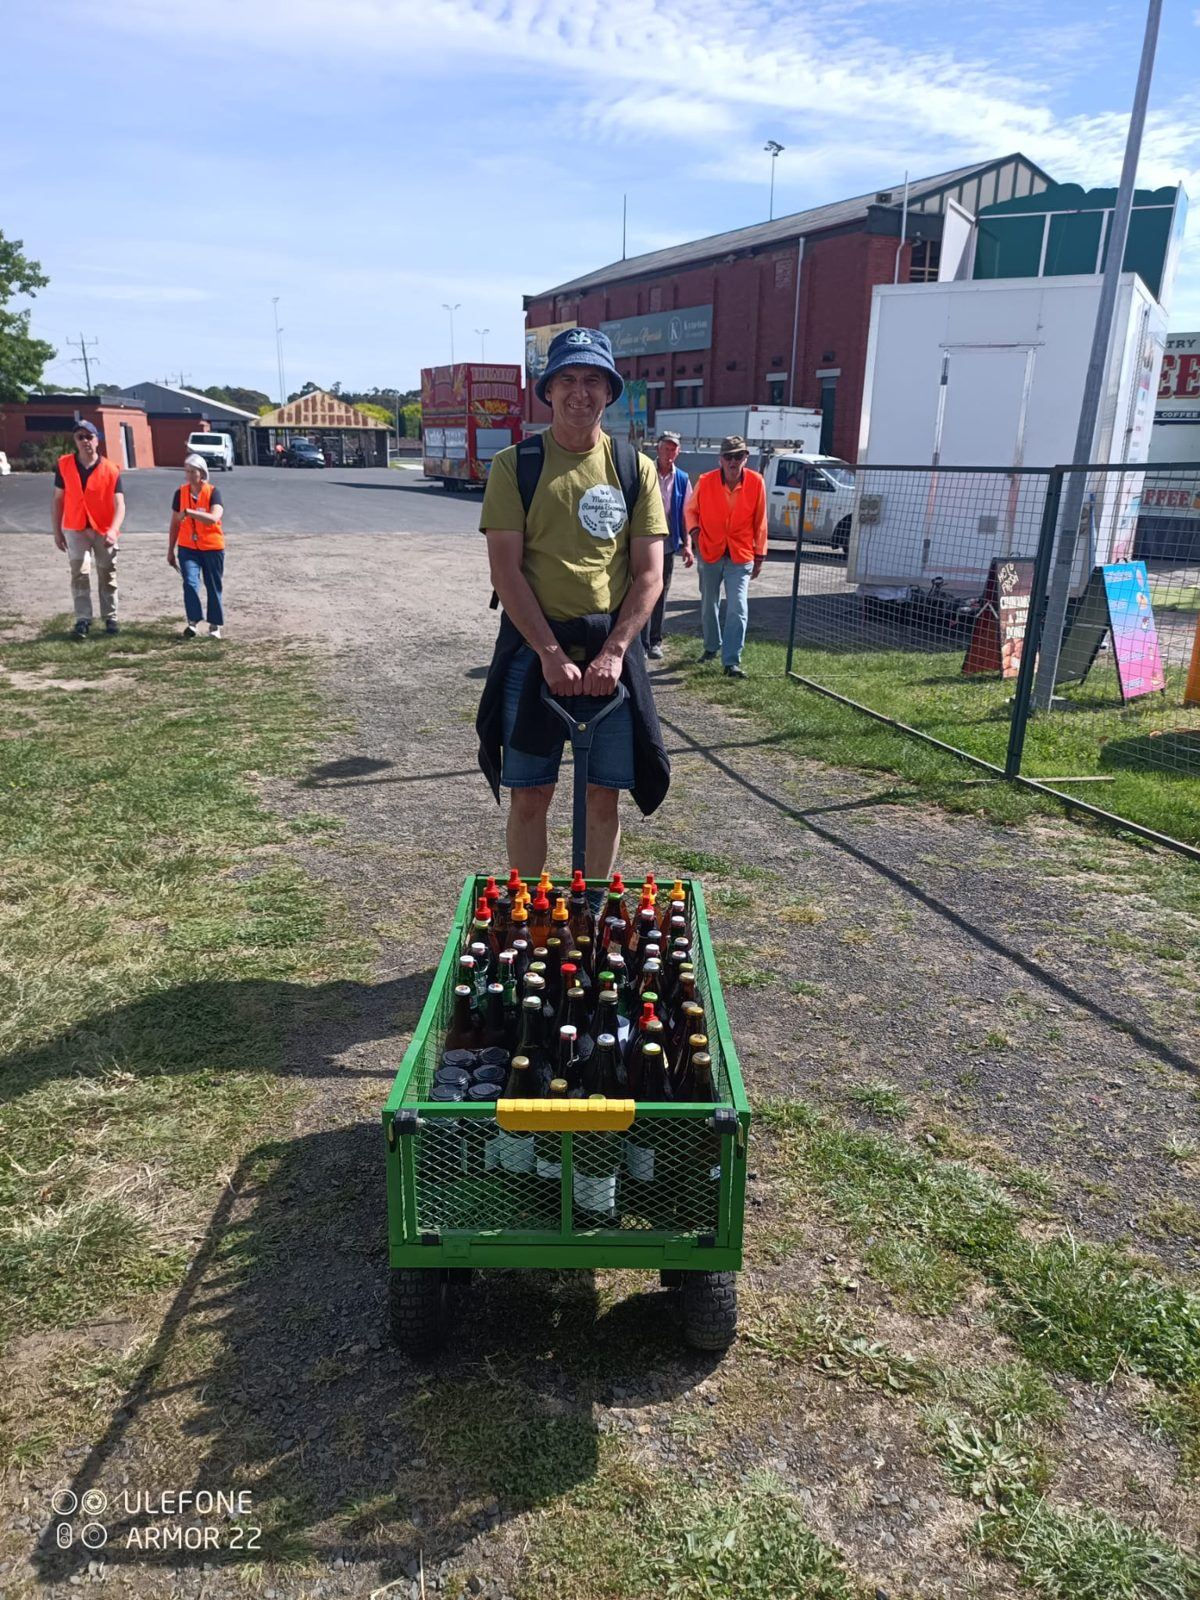
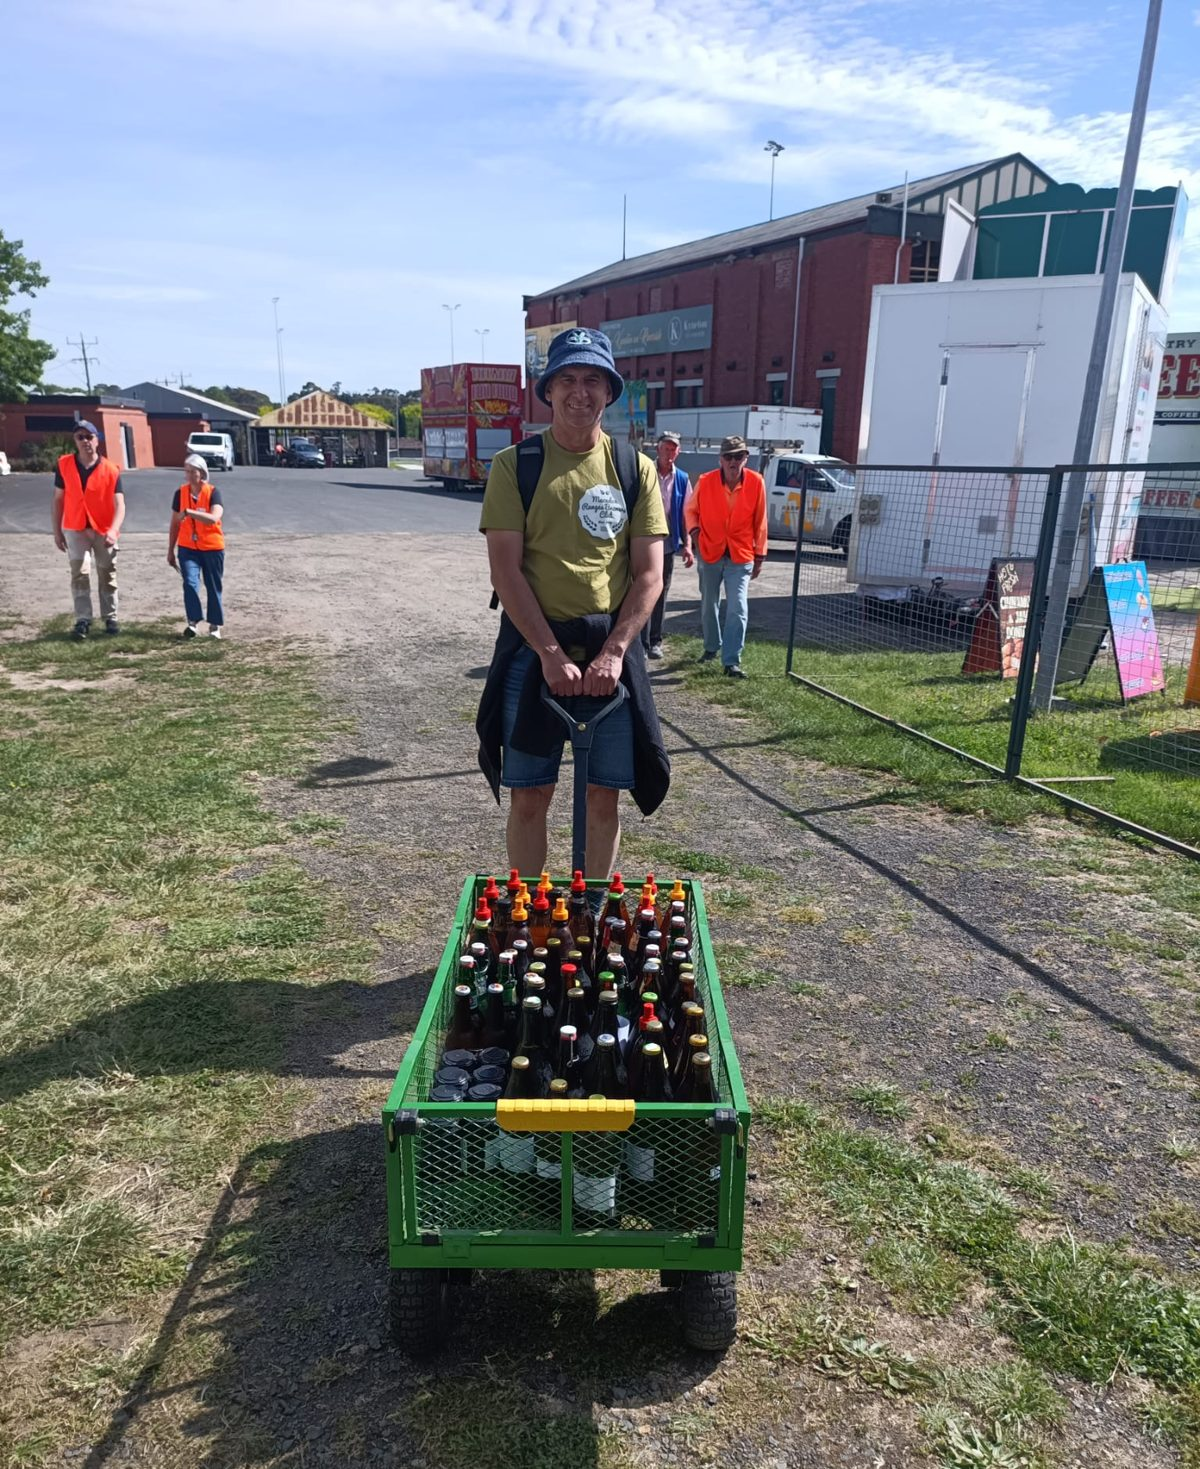
Kyneton page: awards below the results tables; trim camera label from photo
Claude-Session: https://claude.ai/code/session_01AW6nG4EehLn41d52jWjN64

diff --git a/index.html b/index.html
@@ -227,7 +227,7 @@ body.is-admin .admin-only-flex{display:flex;}
 .kyneton-dates{background:var(--bg2);border:1px solid var(--border2);border-radius:4px;padding:1.5rem;margin:1.5rem 0;}
 .kyneton-dates p{margin-bottom:0.5rem;}
 .kyneton-dates p:last-child{margin-bottom:0;}
-.kyneton-awards{display:grid;grid-template-columns:repeat(auto-fit,minmax(min(100%,240px),1fr));gap:1.25rem;margin:1.5rem 0 0;}
+.kyneton-awards{display:grid;grid-template-columns:repeat(auto-fit,minmax(min(100%,240px),1fr));gap:1.25rem;margin:0 0 2rem;}
 .award{background:rgba(232,160,32,0.12);border:1.5px solid var(--gold);border-radius:4px;padding:1.1rem 1rem;text-align:center;display:flex;flex-direction:column;gap:0.25rem;}
 .award-label{color:var(--gold);font-family:var(--body);font-size:0.8rem;letter-spacing:0.15em;text-transform:uppercase;}
 .award-name{color:var(--cream);font-family:var(--serif);font-style:italic;font-size:1.35rem;}
@@ -549,11 +549,6 @@ footer .ft2{margin-top:0.25rem;color:#4a3020;}
     <div class="kyneton-body">
       <p>With almost 70 entries, this year's Kyneton Show Homebrew Competition is our biggest yet. The judging is now complete and the results for place getters are listed below.</p>
 
-      <div class="kyneton-awards">
-        <div class="award"><span class="award-label">Best of Show</span><span class="award-name">Aaron Jenkins</span><span class="award-beer">Westy XII</span></div>
-        <div class="award"><span class="award-label">Champion Brewer</span><span class="award-name">Aaron Jenkins</span></div>
-      </div>
-
       <div class="results-grid">
         <div class="result-card">
           <h3>Pale Ales &lt;7%</h3>
@@ -621,6 +616,11 @@ footer .ft2{margin-top:0.25rem;color:#4a3020;}
             </tbody>
           </table>
         </div>
+      </div>
+
+      <div class="kyneton-awards">
+        <div class="award"><span class="award-label">Best of Show</span><span class="award-name">Aaron Jenkins</span><span class="award-beer">Westy XII</span></div>
+        <div class="award"><span class="award-label">Champion Brewer</span><span class="award-name">Aaron Jenkins</span></div>
       </div>
 
       <p>A huge thank you to our sponsors, I'm sure our winners will be brewing up their next batch with some fine ingredients from BeerCo, Backyard Homebrew Co and Bluestone Yeast, or else relaxing with a cold Holgate or Rock &amp; Ranges beer.</p>
